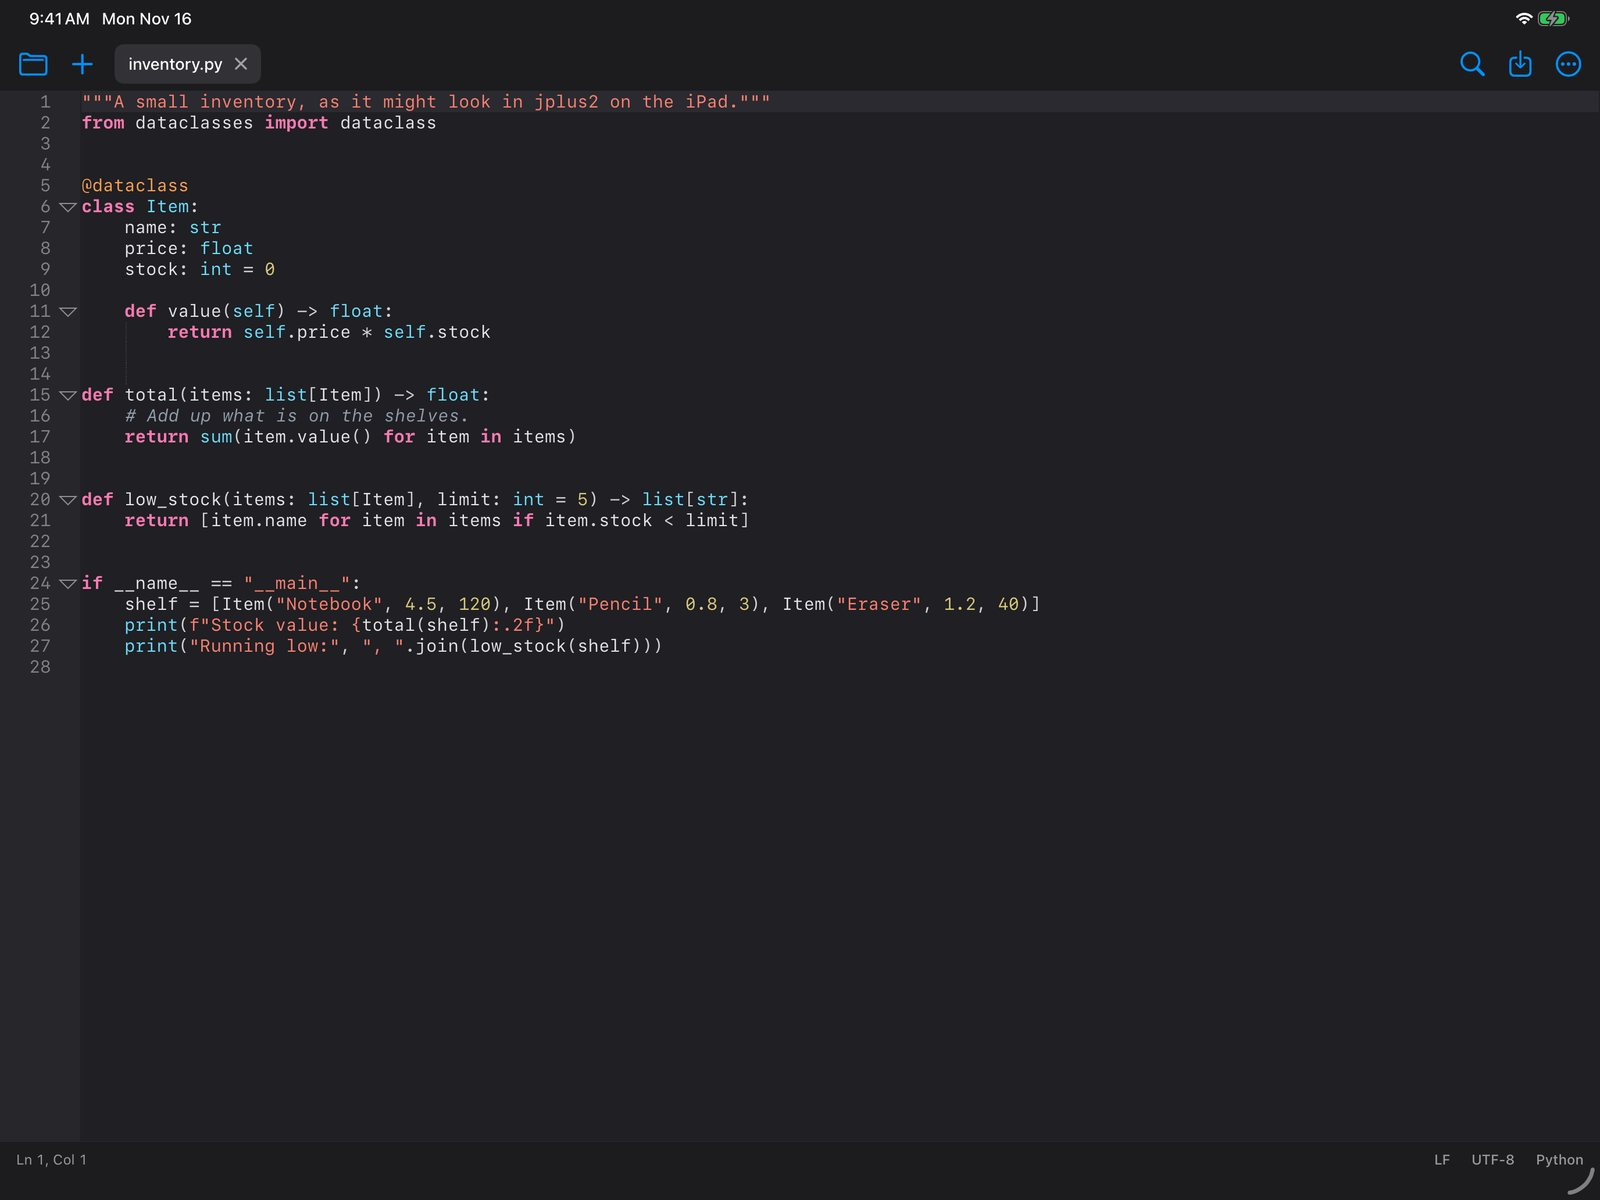
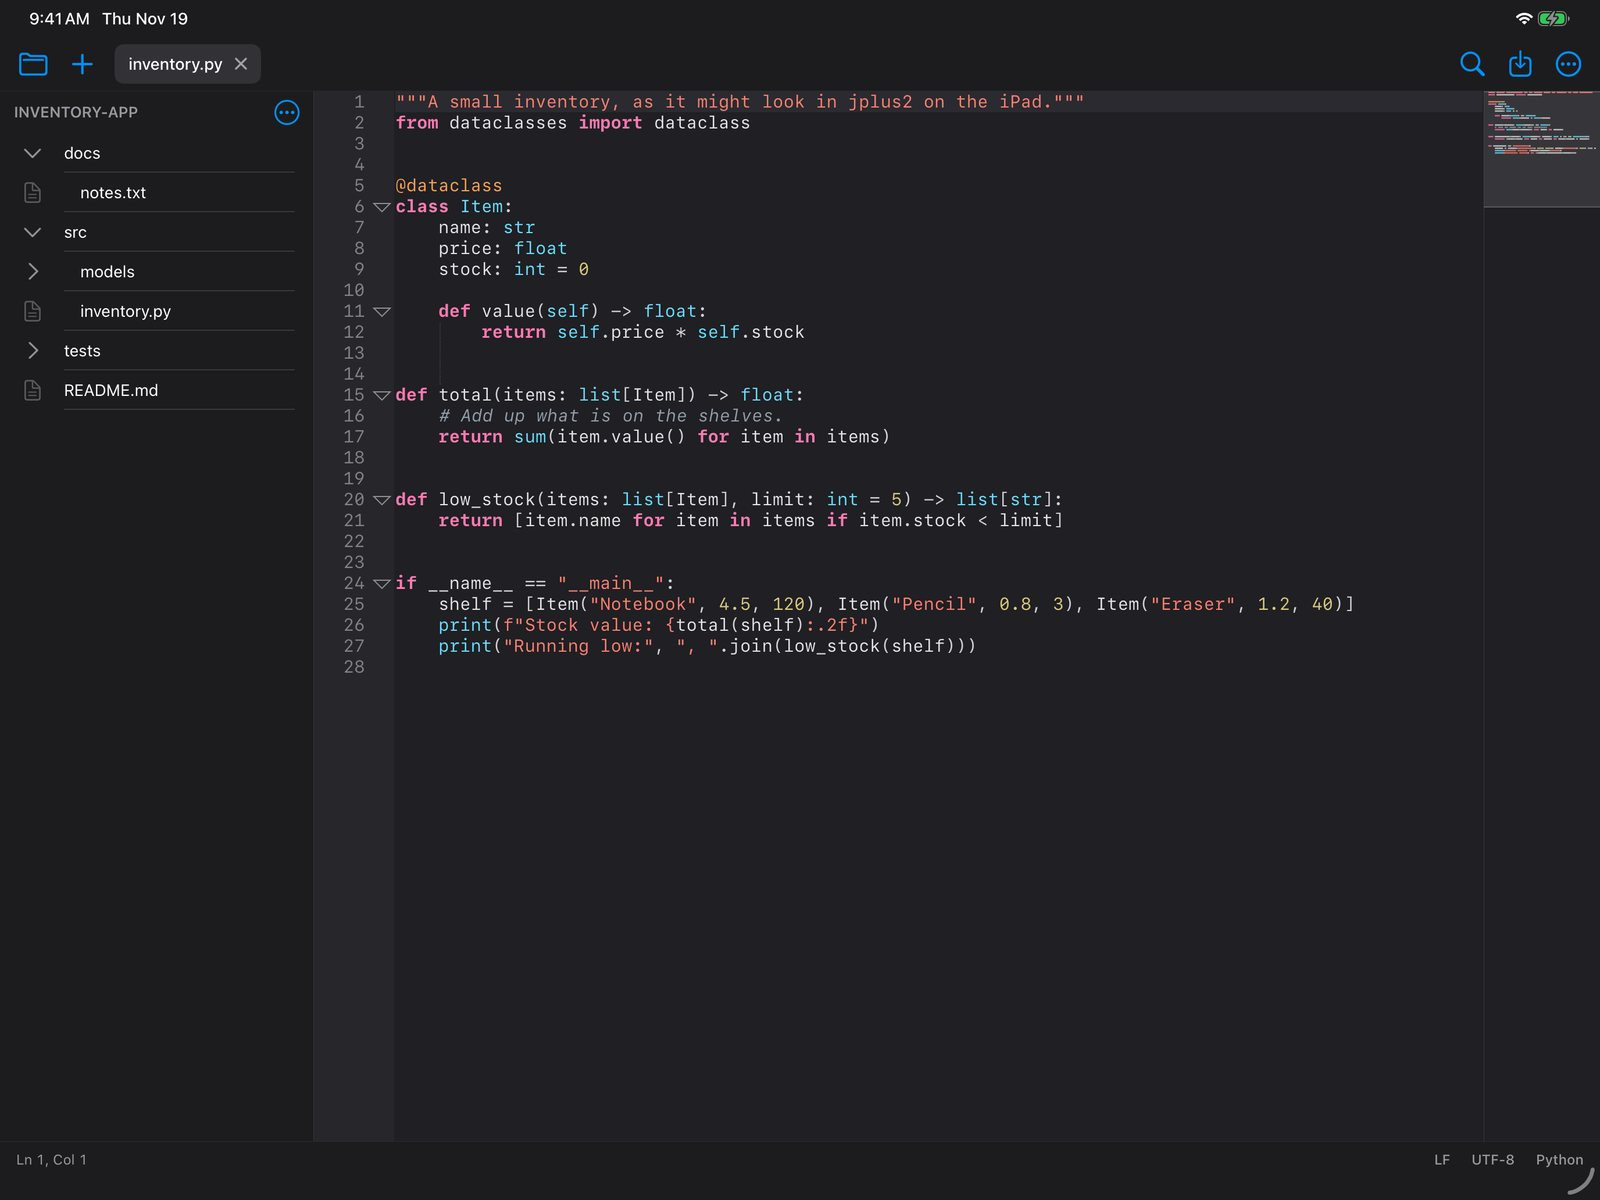
iPadOS section: Explorer, Go to File, minimap, find in all tabs, column editing and saved macros now in the app; new landscape screenshots with the Explorer

diff --git a/public/es/index.html b/public/es/index.html
@@ -239,16 +239,16 @@
     <p class="lead reveal">La próxima versión lleva jplus2 al iPad: el motor de edición de jplus2 Lite, hecho de forma nativa para el tacto, el teclado y la app Archivos. Estas son las funciones que tendrá.</p>
     <p class="reveal"><span class="soon-badge">Próximamente</span></p>
     <p class="note reveal">Planeado para el próximo lanzamiento. Los detalles pueden cambiar antes de publicarlo.</p>
-    <div class="ipad-shot reveal"><picture><source srcset="../img/ipad-dark.webp" type="image/webp" media="(prefers-color-scheme: dark)"><source srcset="../img/ipad-dark.jpg" media="(prefers-color-scheme: dark)"><source srcset="../img/ipad-light.webp" type="image/webp"><img class="shot " src="../img/ipad-light.jpg" alt="jplus2 en iPad en horizontal: un archivo de Python con colores de sintaxis abierto en una pestaña, con los botones Buscar, Guardar y Más en la barra." width="1600" height="1200" loading="lazy" decoding="async"></picture></div>
+    <div class="ipad-shot reveal"><picture><source srcset="../img/ipad-dark.webp" type="image/webp" media="(prefers-color-scheme: dark)"><source srcset="../img/ipad-dark.jpg" media="(prefers-color-scheme: dark)"><source srcset="../img/ipad-light.webp" type="image/webp"><img class="shot " src="../img/ipad-light.jpg" alt="jplus2 en iPad en horizontal: el explorador lateral con las carpetas de un proyecto, un archivo de Python con colores de sintaxis en una pestaña y el minimapa a la derecha." width="1600" height="1200" loading="lazy" decoding="async"></picture></div>
     <div class="tiles">
       <article class="tile reveal"><h3>Pestañas que recuerdan</h3><p>Abre varios archivos en pestañas. Al volver, cada pestaña sigue ahí, incluso el texto que no habías guardado.</p></article>
-      <article class="tile reveal"><h3>Buscar y reemplazar</h3><p>Búsqueda normal o con expresiones regulares, distinguir mayúsculas, palabra completa y Reemplazar todo, con cada coincidencia marcada.</p></article>
-      <article class="tile reveal"><h3>Edita más rápido</h3><p>Duplicar, mover, unir y borrar líneas, cambiar mayúsculas, comentar, sangrar, marcadores, seleccionar la siguiente coincidencia y grabar una macro.</p></article>
+      <article class="tile reveal"><h3>Buscar y reemplazar</h3><p>Búsqueda normal o con expresiones regulares, distinguir mayúsculas, palabra completa y Reemplazar todo, en la pestaña actual o en todas las abiertas.</p></article>
+      <article class="tile reveal"><h3>Edita más rápido</h3><p>Duplicar, mover, unir y borrar líneas, cambiar mayúsculas, comentar, sangrar, marcadores, edición por columnas y macros que puedes guardar con nombre.</p></article>
+      <article class="tile reveal"><h3>Explorador, Ir a archivo y minimapa</h3><p>Abre una carpeta y míralo como árbol, salta a cualquier archivo con unas letras (nombre:42 lo abre en la línea 42) y desplázate con un minimapa de todo el archivo.</p></article>
       <article class="tile reveal"><h3>Paleta de comandos</h3><p>Escribe unas letras para ejecutar cualquier comando, ir a una línea o comparar dos pestañas como diff.</p></article>
-      <article class="tile reveal"><h3>Funciona con Archivos</h3><p>Abre archivos de la app Archivos y edítalos donde están, con UTF-8, UTF-16 y ANSI, y saltos de línea de Windows, Unix o Mac clásico.</p></article>
-      <article class="tile reveal"><h3>Hecho para iPad</h3><p>Vertical y horizontal, claro y oscuro según el sistema, ajuste de línea, números de línea, tamaño de texto cambiable, barra de menús con atajos de teclado e impresión.</p></article>
+      <article class="tile reveal"><h3>Hecho para iPad</h3><p>App Archivos, 16 codificaciones, saltos de línea de Windows, Unix o Mac clásico, vertical y horizontal, claro y oscuro, ajuste de línea, tamaño de texto, barra de menús con atajos de teclado e impresión.</p></article>
     </div>
-    <p class="note reveal">Es la parte de edición de jplus2. El explorador lateral, el minimapa y las herramientas de la versión completa (asistente de IA, ejecutar código, SQL, GitHub) aún no están prometidos para iPadOS.</p>
+    <p class="note reveal">Es la parte de edición de jplus2. Las herramientas de la versión completa (asistente de IA, ejecutar código, SQL, GitHub) aún no están prometidas para iPadOS.</p>
   </div>
 </section>
 

diff --git a/public/index.html b/public/index.html
@@ -240,16 +240,16 @@
     <p class="lead reveal">The next release brings jplus2 to the iPad: the editing engine of jplus2 Lite, built natively for touch, keyboard and the Files app. These are the features it will have.</p>
     <p class="reveal"><span class="soon-badge">Coming soon</span></p>
     <p class="note reveal">Planned for the next release. Details may change before it is published.</p>
-    <div class="ipad-shot reveal"><picture><source srcset="img/ipad-dark.webp" type="image/webp" media="(prefers-color-scheme: dark)"><source srcset="img/ipad-dark.jpg" media="(prefers-color-scheme: dark)"><source srcset="img/ipad-light.webp" type="image/webp"><img class="shot " src="img/ipad-light.jpg" alt="jplus2 on iPad in landscape: a Python file with syntax colouring open in a tab, with the Find, Save and More buttons on the toolbar." width="1600" height="1200" loading="lazy" decoding="async"></picture></div>
+    <div class="ipad-shot reveal"><picture><source srcset="img/ipad-dark.webp" type="image/webp" media="(prefers-color-scheme: dark)"><source srcset="img/ipad-dark.jpg" media="(prefers-color-scheme: dark)"><source srcset="img/ipad-light.webp" type="image/webp"><img class="shot " src="img/ipad-light.jpg" alt="jplus2 on iPad in landscape: the Explorer sidebar with a project&#x27;s folders, a Python file with syntax colouring in a tab, and the minimap on the right." width="1600" height="1200" loading="lazy" decoding="async"></picture></div>
     <div class="tiles">
       <article class="tile reveal"><h3>Tabs that remember</h3><p>Open several files in tabs. When you come back, every tab is there, even text you had not saved.</p></article>
-      <article class="tile reveal"><h3>Find and replace</h3><p>Normal or regular-expression search, match case, whole word and Replace All, with every match marked.</p></article>
-      <article class="tile reveal"><h3>Edit faster</h3><p>Duplicate, move, join and delete lines, change case, comment, indent, bookmarks, select the next occurrence and record a macro.</p></article>
+      <article class="tile reveal"><h3>Find and replace</h3><p>Normal or regular-expression search, match case, whole word and Replace All, in the current tab or in every open tab.</p></article>
+      <article class="tile reveal"><h3>Edit faster</h3><p>Duplicate, move, join and delete lines, change case, comment, indent, bookmarks, column editing, and macros you can save by name.</p></article>
+      <article class="tile reveal"><h3>Explorer, Go to File and minimap</h3><p>Open a folder and see it as a tree, jump to any file from a few letters (name:42 opens it at line 42), and scroll with a minimap of the whole file.</p></article>
       <article class="tile reveal"><h3>Command palette</h3><p>Type a few letters to run any command, jump to a line, or compare two tabs as a diff.</p></article>
-      <article class="tile reveal"><h3>Works with Files</h3><p>Open files from the Files app and edit them where they are, with UTF-8, UTF-16 and ANSI, and Windows, Unix or classic Mac line endings.</p></article>
-      <article class="tile reveal"><h3>Made for iPad</h3><p>Portrait and landscape, light and dark that follow the system, word wrap, line numbers, text size you can change, a menu bar with keyboard shortcuts, and printing.</p></article>
+      <article class="tile reveal"><h3>Made for iPad</h3><p>Files app, 16 encodings, Windows, Unix or classic Mac line endings, portrait and landscape, light and dark, word wrap, text size, a menu bar with keyboard shortcuts, and printing.</p></article>
     </div>
-    <p class="note reveal">It is the editing part of jplus2. The Explorer sidebar, the minimap and the tools of the full version (AI assistant, running code, SQL, GitHub) are not promised for iPadOS yet.</p>
+    <p class="note reveal">It is the editing part of jplus2. The tools of the full version (AI assistant, running code, SQL, GitHub) are not promised for iPadOS yet.</p>
   </div>
 </section>
 
